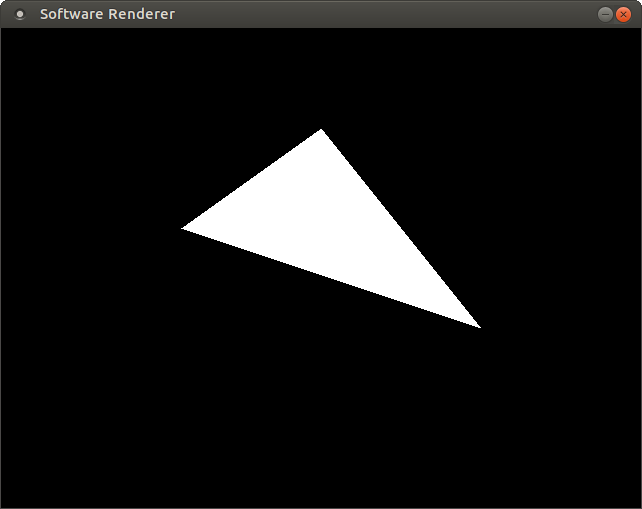
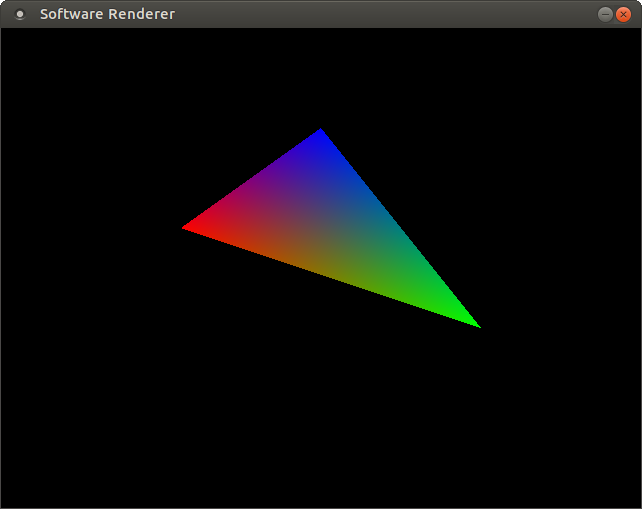
Changed code

Changed region(s): [[0.2804, 0.2652, 0.7477, 0.6483]]

diff --git a/_drafts/developing-a-software-renderer-part1.md b/_drafts/developing-a-software-renderer-part1.md
@@ -126,6 +126,41 @@ struct EdgeEquation {
 };
 ```
 
+We also want to interpolate colors across the triangle. Later we also want to
+interpolate texture coordinates and in the general case arbitrary per vertex
+parameters. For this we create a `ParameterEquation` class.
+
+```cpp
+struct ParameterEquation {
+  float a;
+  float b;
+  float c;
+
+  ParameterEquation(
+    float p0,
+    float p1, 
+    float p2, 
+    const EdgeEquation &e0, 
+    const EdgeEquation &e1, 
+    const EdgeEquation &e2, 
+    float area)
+  {
+    float factor = 1.0f / (2.0f * area);
+
+    a = factor * (p0 * e0.a + p1 * e1.a + p2 * e2.a);
+    b = factor * (p0 * e0.b + p1 * e1.b + p2 * e2.b);
+    c = factor * (p0 * e0.c + p1 * e1.c + p2 * e2.c);
+  }
+
+  /// Evaluate the parameter equation for the given point.
+
+  float evaluate(float x, float y)
+  {
+    return a * x + b * y + c;
+  }
+};
+```
+
 Then we can go on and rasterize the triangle. We compute the bounding box of the
 triangle, restrict it to the scissor rectangle, cull backfacing triangles and
 then fill all the pixels inside the triangle while obeying the fill rule with
@@ -167,15 +202,19 @@ void drawTriangle(const Vertex& v0, const Vertex &v1, const Vertex &v2)
   for (float y = minY + 0.5f, ym = maxY + 0.5f; y <= ym; y += 1.0f)
   {
     if (e0.test(x, y) && e1.test(x, y) && e2.test(x, y))
-      putpixel(m_surface, x, y, 0xffffffff);
+    {
+      int rint = r.evaluate(x, y) * 255;
+      int gint = g.evaluate(x, y) * 255;
+      int bint = b.evaluate(x, y) * 255;
+      Uint32 color = SDL_MapRGB(m_surface->format, rint, gint, bint);
+      putpixel(m_surface, x, y, color);
+    }
   }
 }
 
 ```
 
 ![Screenshot]({{ site.url }}/assets/images/software-rendering/triangle1.png){: .align-center}
-
-### Adding Color
 
 ### Block Based
 
@@ -184,4 +223,4 @@ improved by a block based approach that allows us to discard blocks outside the
 triangle faster and skip some test when the block is completely inside the
 triangle.
 
-The block based approach gives better performance and can also be parallelized
+The block based approach gives better performance and can also be parallelized.
